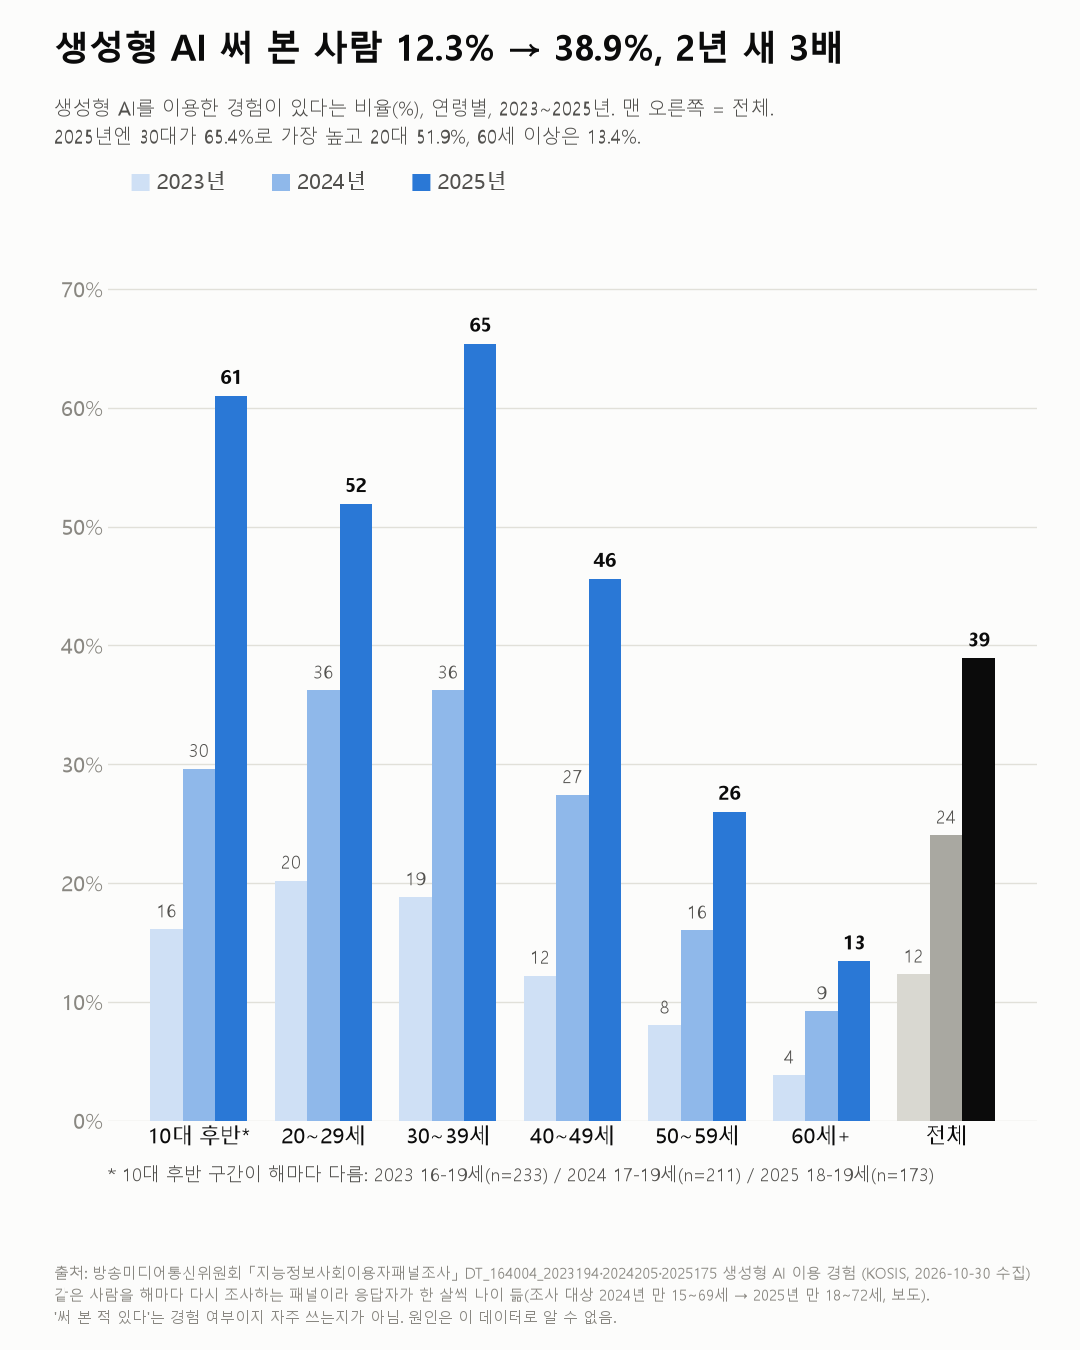
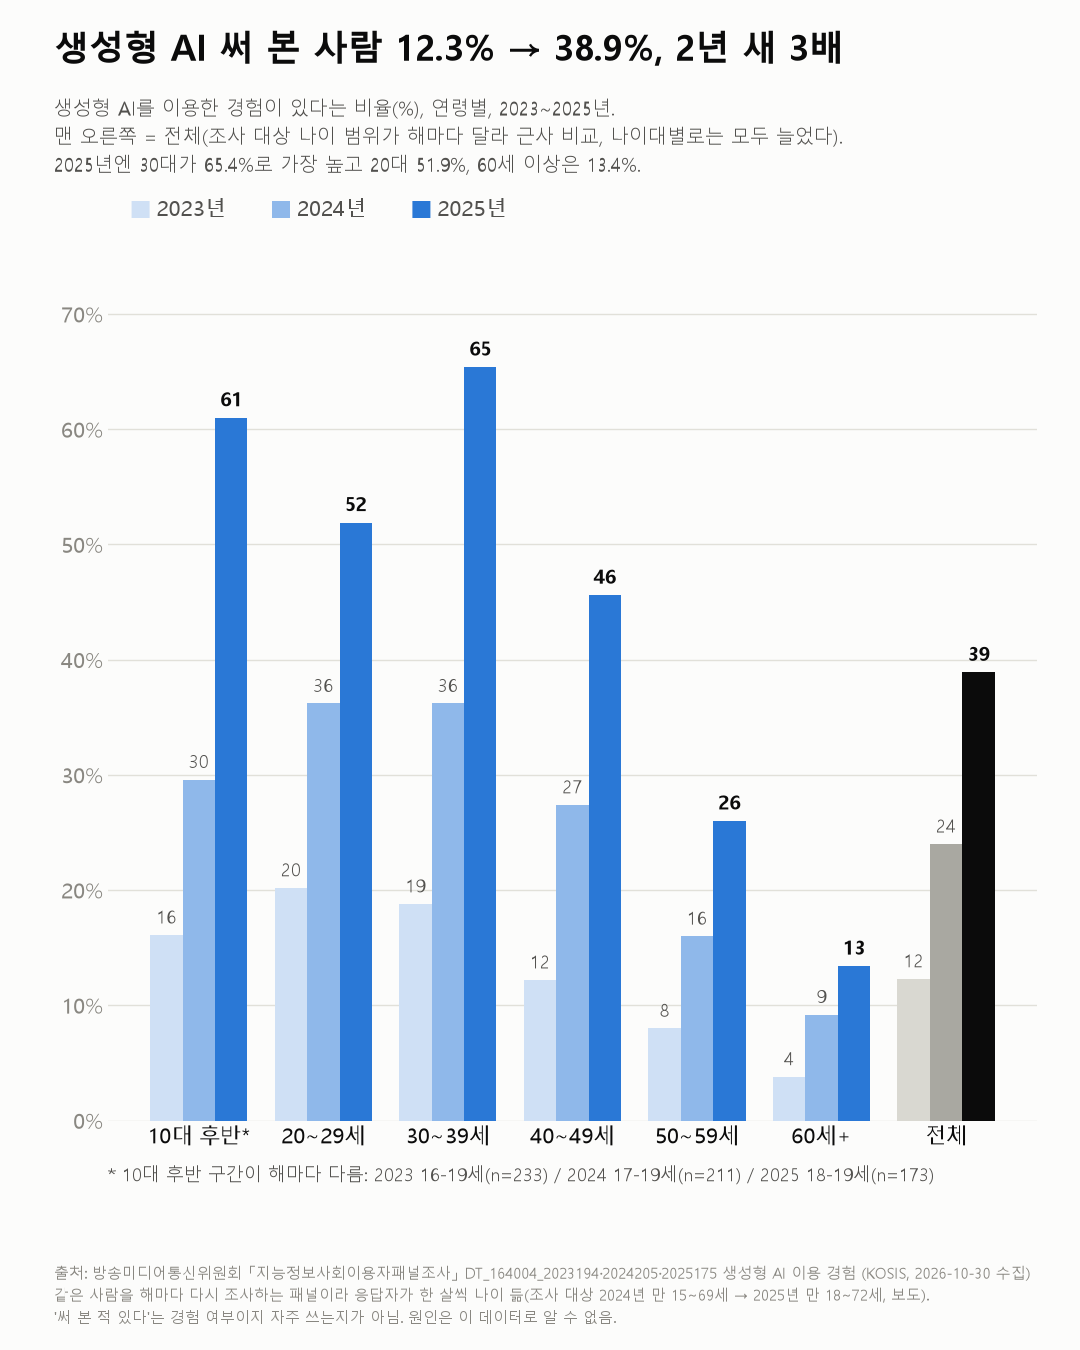
사이트 갱신

diff --git a/2026-10_genai-use/index.html b/2026-10_genai-use/index.html
@@ -55,7 +55,7 @@
 </section><section class="sec sec-meta"><h2>기준일</h2>
 <p>조사연도 2023·2024·2025년.</p>
 </section><section class="sec"><h2>인사이트</h2>
-<p><strong>1. 생성형 AI를 써 본 사람은 2023년 12.3% → 2024년 24.0% → 2025년 38.9%.</strong> 2년 새 3배 남짓이다.</p>
+<p><strong>1. 생성형 AI를 써 본 사람은 2023년 12.3% → 2024년 24.0% → 2025년 38.9%.</strong> 2년 새 3배 남짓이다. 조사 대상 나이 범위가 해마다 달라 전체 값은 근사 비교지만, 20대~60세 이상 모든 나이대에서 해마다 늘었다.</p>
 <p><strong>2. 2025년엔 30대가 65.4%로 가장 높다.</strong> 20대 51.9%, 40대 45.6%, 50대 26.0%, 60세 이상 13.4%. 2023년엔 20대(20.2%)가 30대(18.8%)보다 조금 높았고 2024년엔 둘이 36.2%로 같았다.</p>
 <p><strong>3. 60세 이상도 3.8% → 9.2% → 13.4%로 늘었지만, 30대와의 차이는 15.0%p → 27.0%p → 52.0%p로 벌어졌다.</strong></p>
 <p><strong>4. 남녀 차이도 벌어졌다.</strong> 남자-여자: 2023년 13.1 vs 11.5%, 2024년 25.7 vs 22.3%, 2025년 41.9 vs 35.7%.</p>
@@ -63,6 +63,7 @@
 <p><a class="chart-link" href="chart_genai_use_groups.png" title="원본 크기로 보기"><img alt="성·학력·권역" src="chart_genai_use_groups.png" /></a></p>
 </section><section class="sec sec-limits"><h2>한계</h2><p class="sec-note">이 데이터로 말할 수 없는 것</p>
 <ul>
+<li><strong>조사 대상 나이 범위가 해마다 다르다</strong>(2024년 만 15~69세 → 2025년 만 18~72세, 보도). 그래서 전체 12.3% → 38.9%는 근사 비교이고, 나이대별로 봐도 모두 늘었다는 것을 함께 확인했다.</li>
 <li><strong>패널 조사라 해마다 응답자가 같은 사람이고 한 살씩 나이 든다.</strong> '10대 후반' 구간은 해마다 범위가 달라 차트에 따로 표시했다.</li>
 <li><strong>권역별 값은 해마다 크게 움직인다</strong>(예: 대전·세종·충청·강원 2024년 25.2% → 2025년 44.3%). 권역 순위는 한 해 값으로 단정하지 않는다.</li>
 <li>대학원 이상(n=30)은 표본이 작아 회색으로 그렸다.</li>
